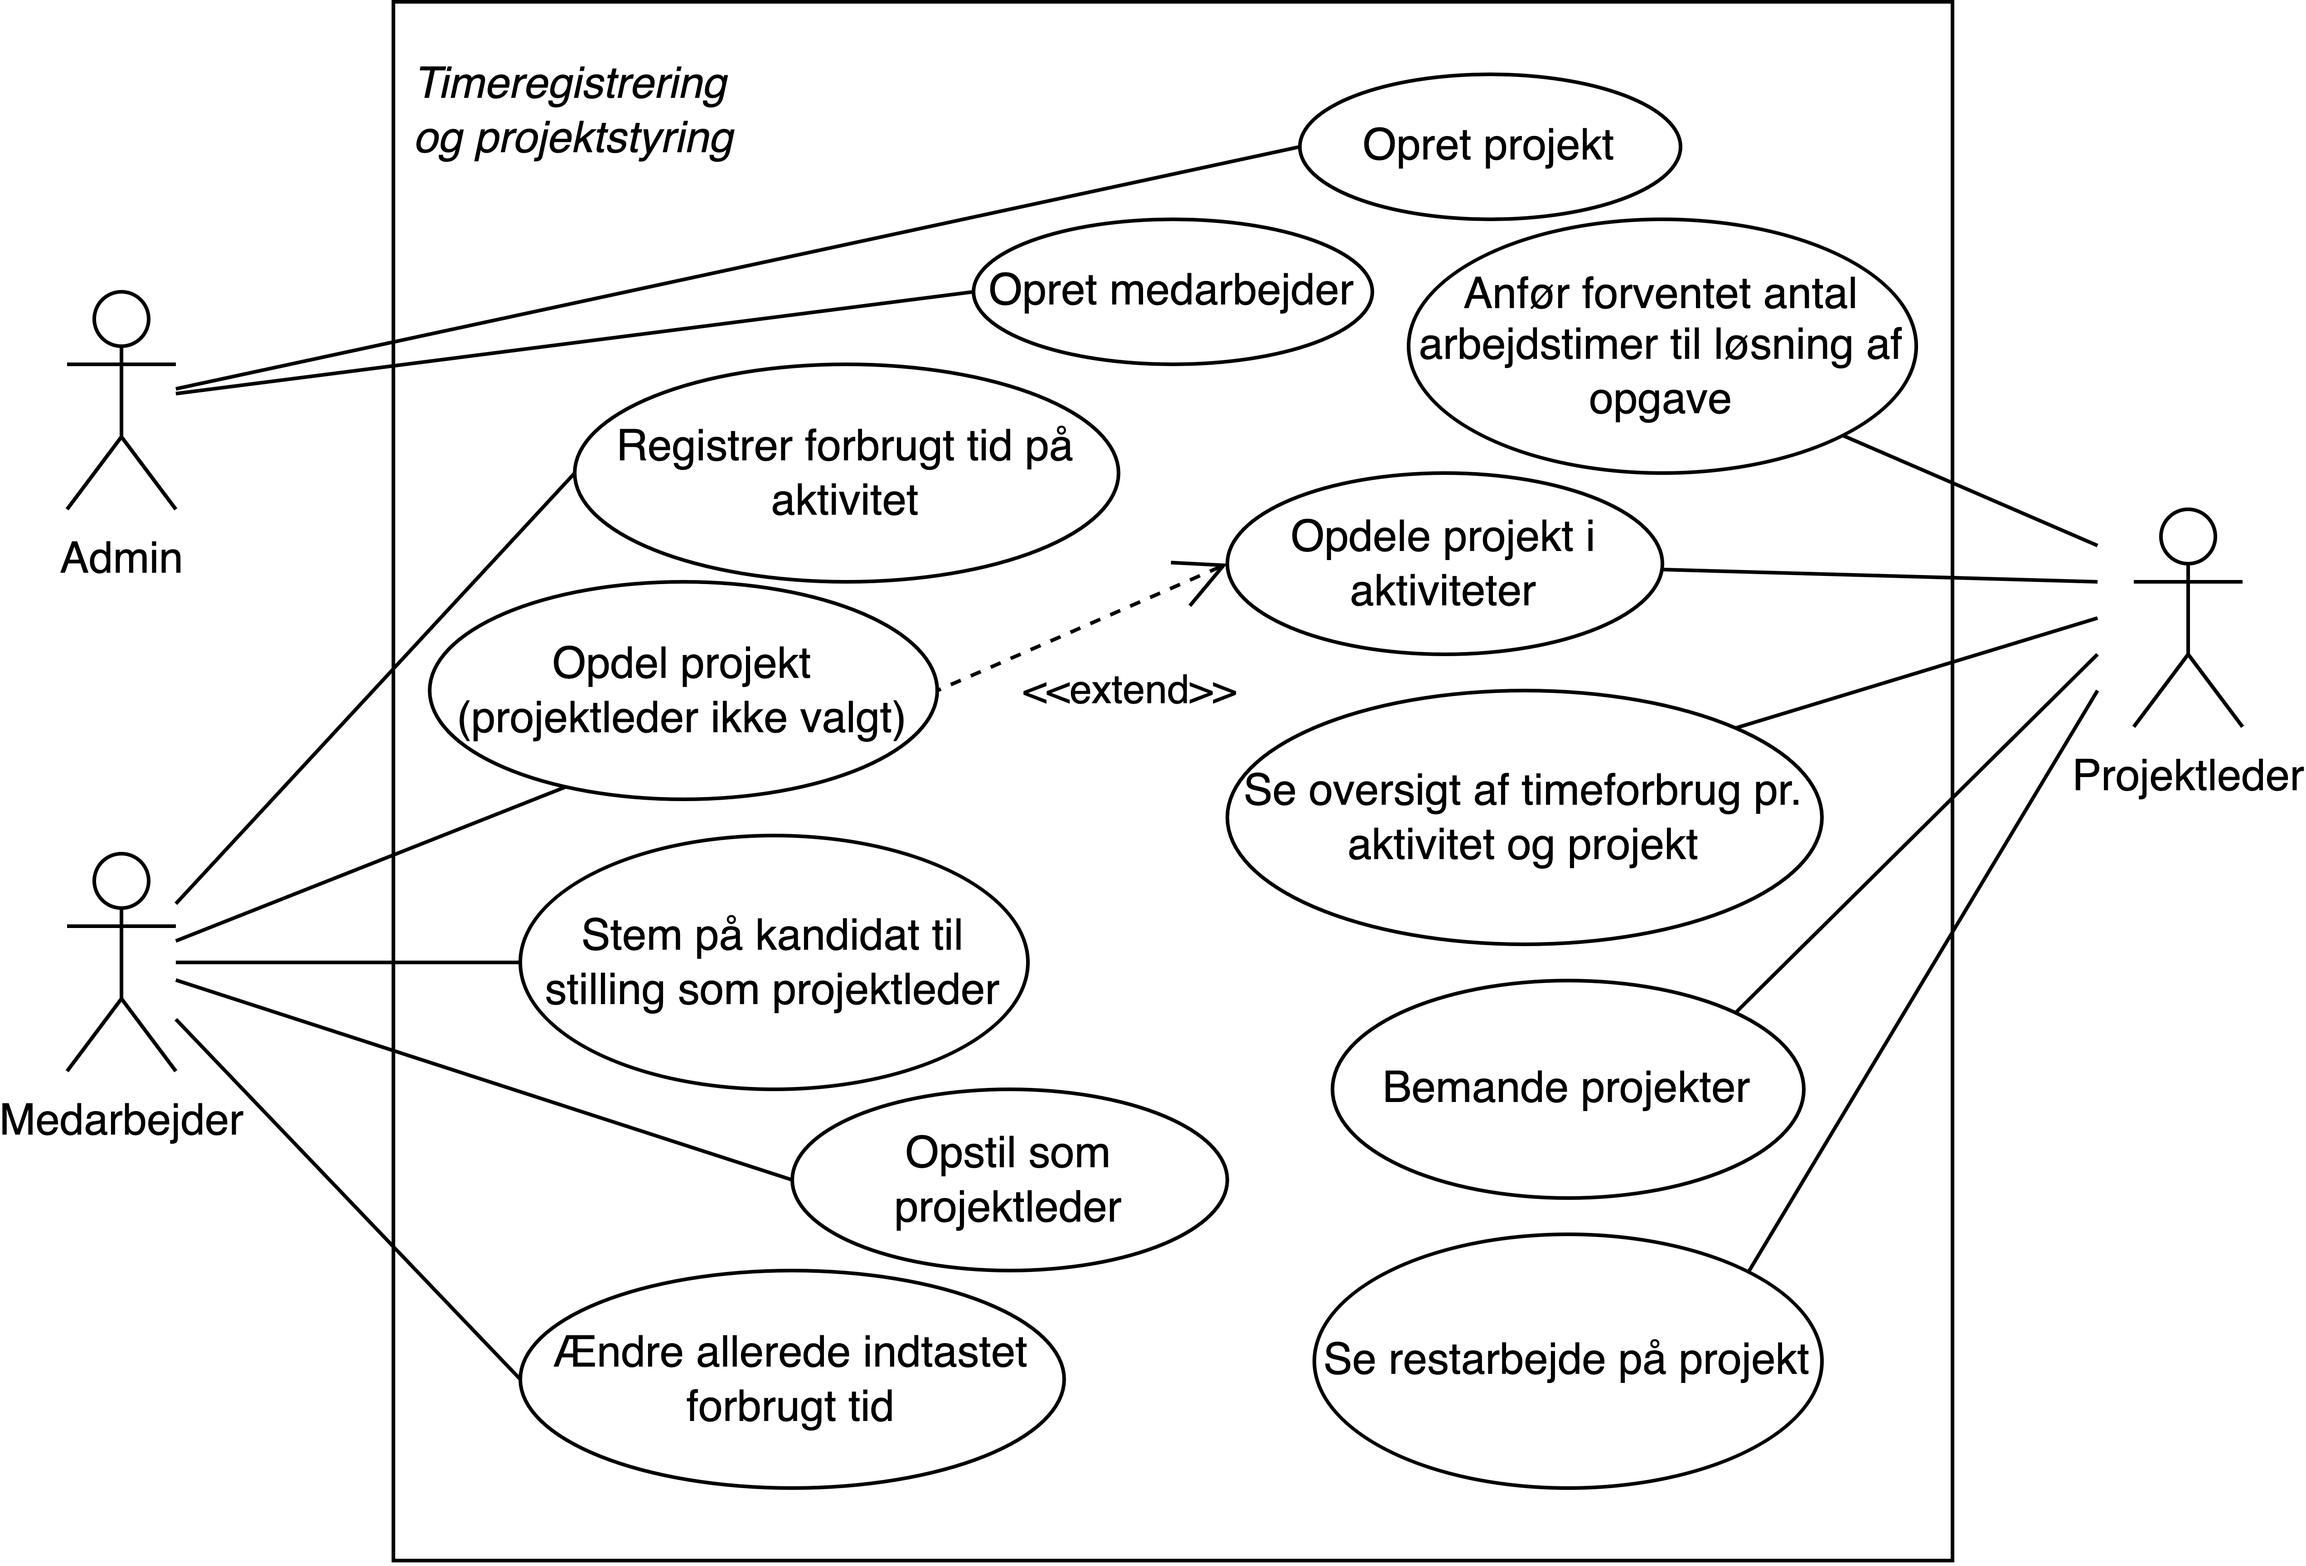
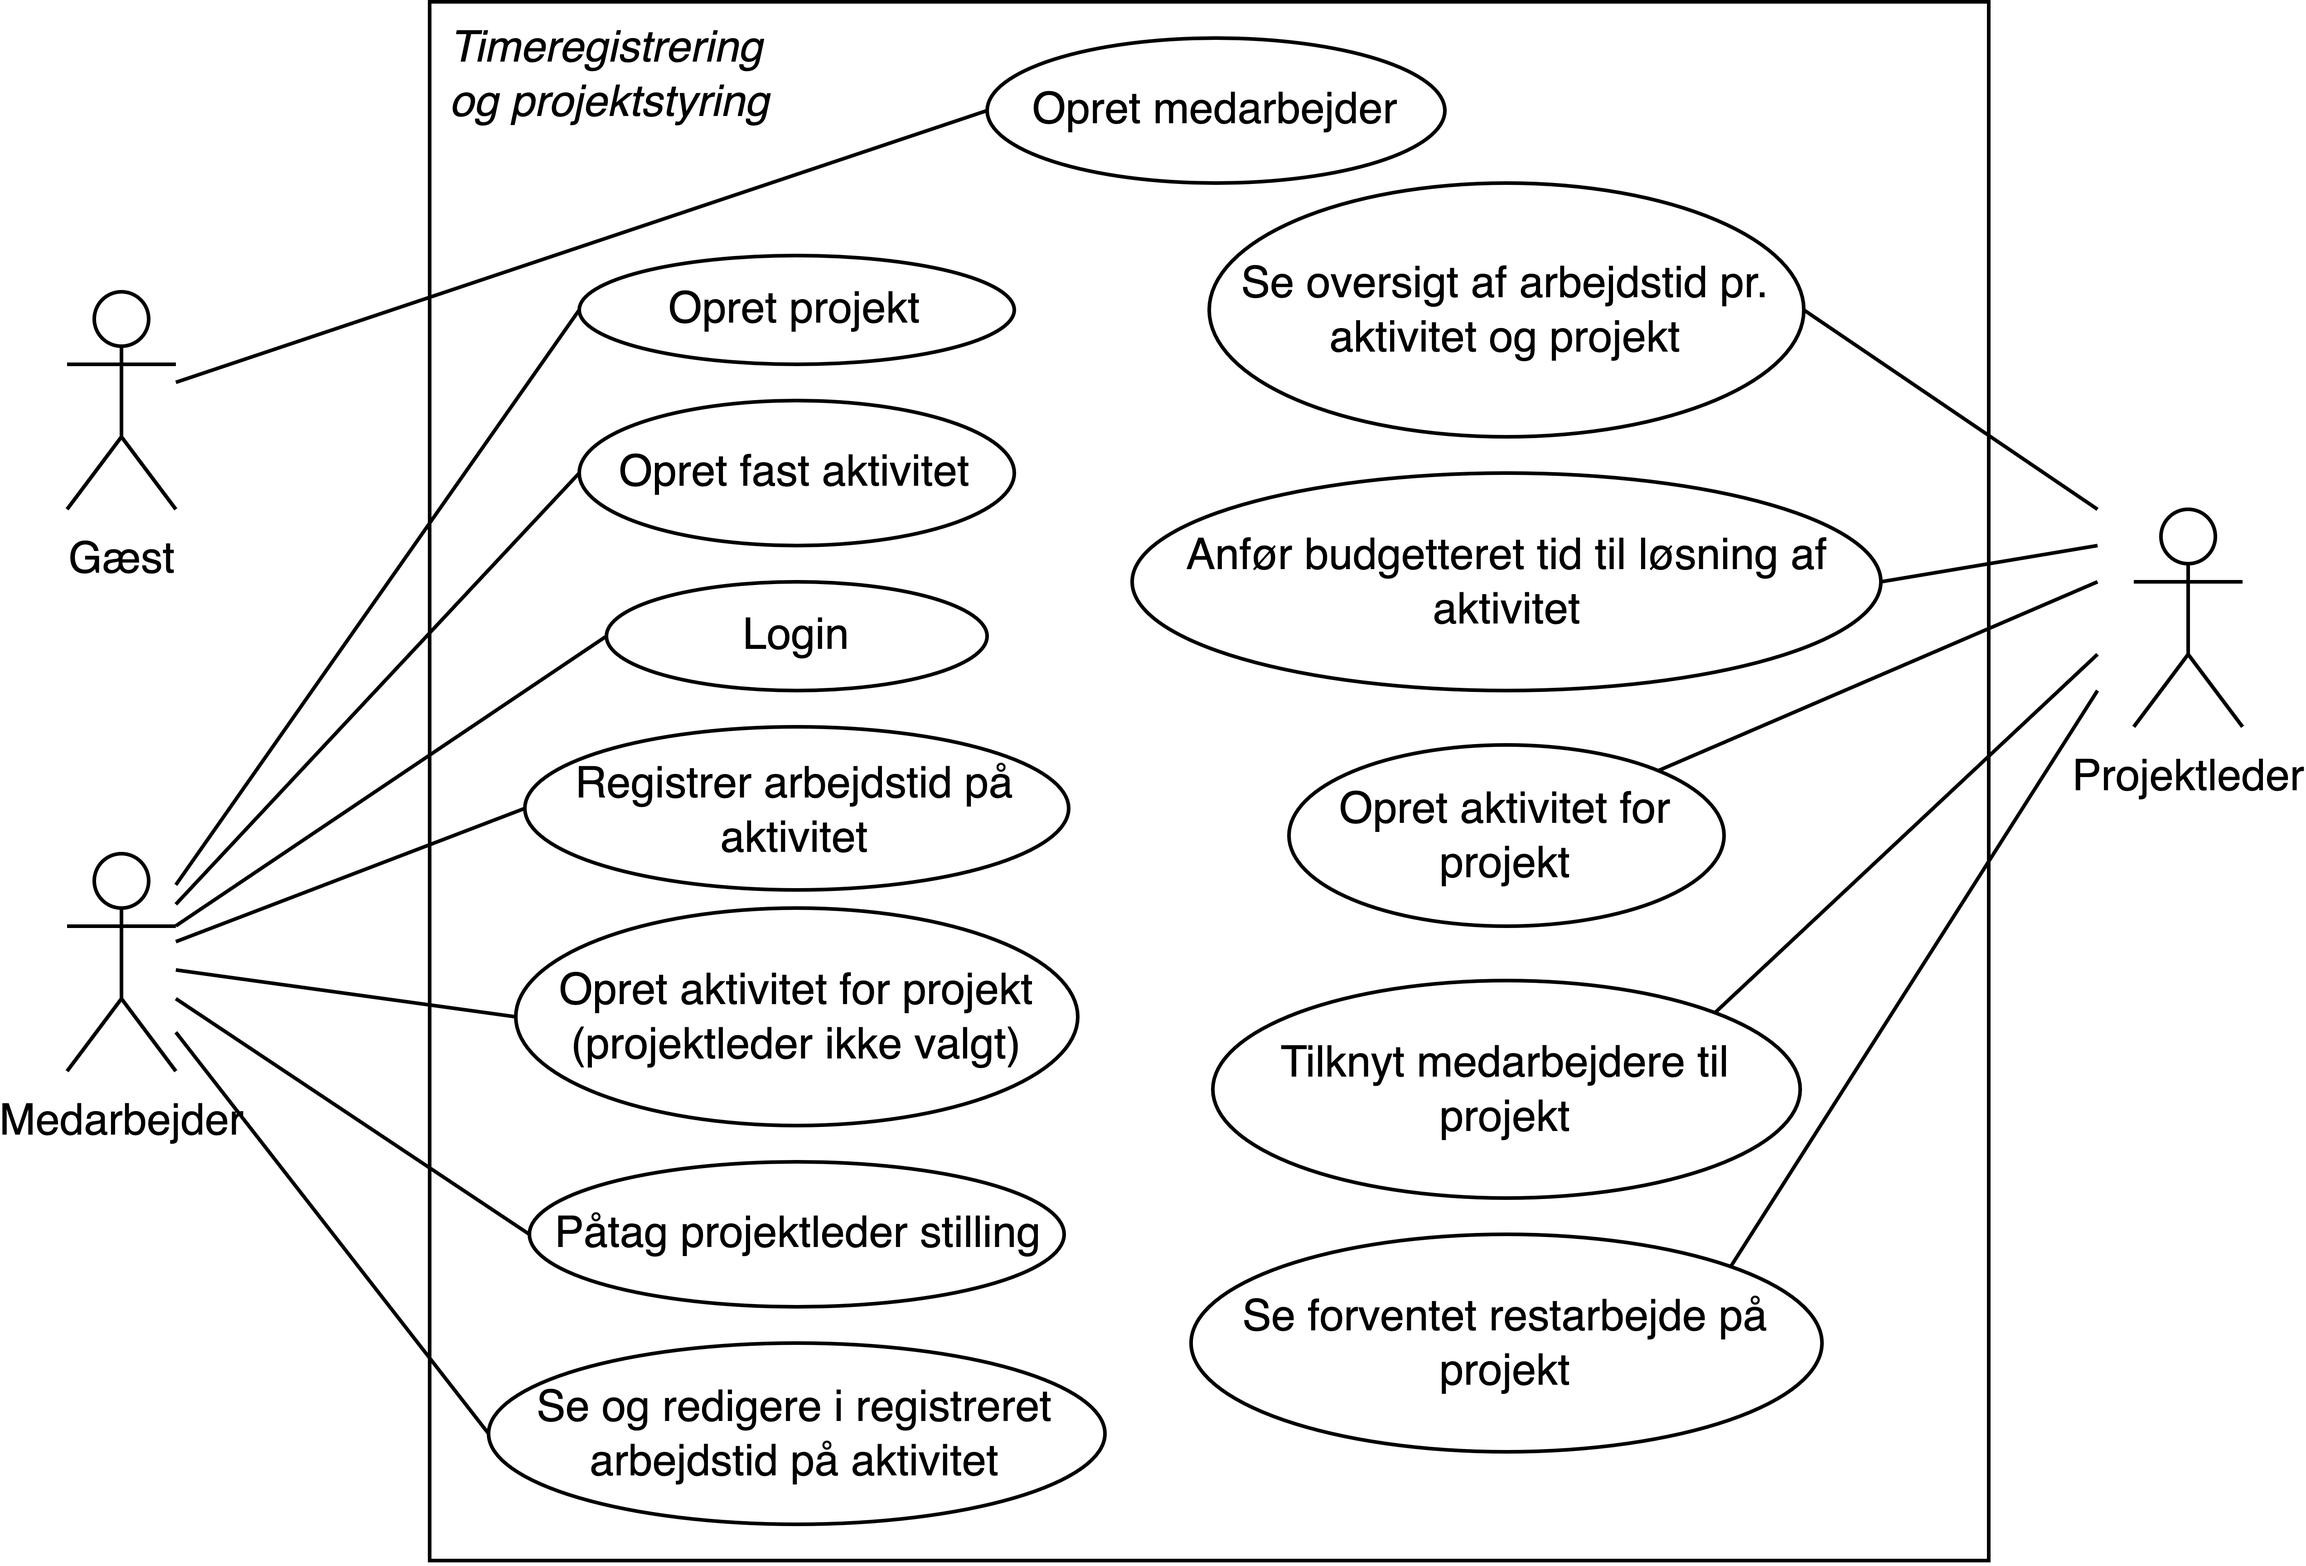
Update on Overleaf.

diff --git a/RequirementsAndDesign/Sections/01Requirements.tex b/RequirementsAndDesign/Sections/01Requirements.tex
@@ -8,60 +8,87 @@
     \begin{tblr}{width = \textwidth, colspec={Q[l, font = \bfseries, wd = .17\textwidth]Q[l, wd = .73\textwidth]}}
         % \toprule
         Medarbejder       & En medarbejder er en person ansat i Softwarehuset A/S, som er tildelt aktiviteter. En medarbejder kan udføre aktiviteter og registrere arbejdstid brugt på aktiviteter, uagtet om medarbejderen er tilknyttet aktiviteten. Hver medarbejder har et medarbejder ID. \\
-        Projekt aktivitet & En delopgave af et projekt. Hver aktivitet er tilknyttet en medarbejder.                                                                                                                                                                                           \\
-        Faste aktiviteter & Aktiviteter der ikke kan pålægges et projekt. F.eks. ferie, sygdom, kurser.                                                                                                                                                                                        \\
-        Projekt           & Udviklingsarbejde udført for en kunde (eksternt) eller for Softwarehuset A/S (internt). Et projekt administreres af en projektleder og er inddelt i aktiviteter. Hvert projekt har et projektnummer.                                                               \\
-        Kunde             & En ekstern entitet som bestiller og er modtager af projekter.                                                                                                                                                                                                      \\
-        Projektleder      & En medarbejder der har ret til at oprette og tildele aktiviteter for et givent projekt.                                                                                                                                                                            \\
-        Softwarehuset A/S & Entitet som er modtager af et projekt, hvis projektet er internt.                                                                                                                                                                                                  \\
-        Medarbejder ID    & Identifikation for hver enkelt medarbejder. Består af fire bogstaver. To første fra fornavn efterfulgt af to første fra efternavn. F.eks. RAWI.                                                                                                                    \\
-        Projektnumer      & Identifikation for hvert enkelt projekt. Har formen årstal efterfulgt af et fireciffret løbenummer. F.eks. 23001                                                                                                                                                   \\
-        Varighed          & En aktivitets fastlagte antal hele timer.                                                                                                                                                                                                                          \\
-        Arbejdstid        & Mængde tid i inkrementer af halve timer, brugt på en aktivitet. Kan registreres af den medarbejder som har brugt arbejdstid på en given aktivitet.                                                                                                                 \\
+        
+        Projekt aktivitet & En delopgave af et projekt. Hver aktivitet er tilknyttet en medarbejder. \\
+        
+        Faste aktiviteter & Aktiviteter der ikke kan pålægges et projekt. F.eks. ferie, sygdom, kurser. \\
+        
+        Projekt           & Udviklingsarbejde udført for en kunde (eksternt) eller for Softwarehuset A/S (internt). Et projekt administreres af en projektleder og er inddelt i aktiviteter. Hvert projekt har et projektnummer. \\
+        
+        Kunde             & En ekstern entitet som bestiller og er modtager af projekter. \\
+        
+        Projektleder      & En medarbejder der har ret til at oprette og tildele aktiviteter for et givent projekt. \\
+        
+        Softwarehuset A/S & Entitet som er modtager af et projekt, hvis projektet er internt. \\
+        
+        Medarbejder ID    & Identifikation for hver enkelt medarbejder. Består af fire bogstaver. To første fra fornavn efterfulgt af to første fra efternavn. F.eks. rawi.  \\
+        
+        Projektnumer      & Identifikation for hvert enkelt projekt. Har formen årstal efterfulgt af et fireciffret løbenummer. F.eks. 23001  \\
+        
+        Budgetteret tid          & En aktivitets fastlagte antal hele timer. \\
+        
+        Arbejdstid        & Mængde tid i inkrementer af halve timer, brugt på en aktivitet. Kan registreres af den medarbejder som har brugt arbejdstid på en given aktivitet.  \\
+        
         % \bottomrule
     \end{tblr}
 \end{table}
 \subsection{Use case diagrams}
-\subsubsection{Projektstyring}
-
 \begin{figure}[H]
     \centering
-    \caption{Use case: Projektstyring}\label{fig:Projektstyring}
-    \includegraphics[width=.3\textwidth]{Diagrams/guest_project}
+    \caption{Use case diagram for programmet \textbf{Timeregistrering og projektstyring} hvori de tre aktører inkluderet er Gæst, Medarbejder og Projektleder.}\label{fig:AlleActorsPaaEnGang}
+    \includegraphics[width=.85\textwidth]{Diagrams/Timeregistrering og projektstyring.png}
 \end{figure}
+%\begin{figure}[H]
+%    \centering
+%    \caption{Use case: Projektstyring GAMMEL}\label{fig:Projektstyring}
+%    \includegraphics[width=.3\textwidth]{Diagrams/guest_project}
+%\end{figure}
 
-\subsubsection{Aktivitetshåndtering}
+%\subsubsection{Aktivitetshåndtering}
 
-\begin{figure}[H]
-    \centering
-    \caption{Use case: Aktivitetshåndtering}\label{fig:Aktivitetshaandtering}
-    \includegraphics[width=.3\textwidth]{Diagrams/guest_activity}
-\end{figure}
+%\begin{figure}[H]
+%    \centering
+%    \caption{Use case: Aktivitetshåndtering GAMMEL}\label{fig:Aktivitetshaandtering}
+%    \includegraphics[width=.3\textwidth]{Diagrams/guest_activity}
+%\end{figure}
 
-\subsubsection{Bruger administration}
+%\subsubsection{Bruger administration}
 
-\begin{figure}[H]
-    \centering
-    \caption{Use case: Bruger administration}\label{fig:BrugerAdmin}
-    \includegraphics[width=.3\textwidth]{Diagrams/guest_users}
-\end{figure}
+%\begin{figure}[H]
+%    \centering
+%    \caption{Use case: Bruger administration GAMMEL}\label{fig:BrugerAdmin}
+%    \includegraphics[width=.3\textwidth]{Diagrams/guest_users}
+%\end{figure}
 
 \subsection{Detaljerede use cases}
 \subsection{Opret projekt}
-\Large{Kaspers udkast af use case}\newline
-\normalsize
 \emph{Navn}\newline
 Opret projekt\newline
 \emph{Beskrivelse}\newline
 Der kan oprettes projekter\newline
 \emph{Aktør}\newline
 Bruger
-\begin{figure}[H]
-    \centering
-    \caption{Det her var et forsøg på at lave et use-case diagram med alle actors tilstede. Der er muligvis også flere use-cases end nødvendig, men de her er stillet af opgaven, som fremgår af projektbeskrivelsen. Ikke nødvendigvis det mest overskuelige use-case diagram, men en fordel ved denne er - selvom det er en mindre detalje - at man får en enkel use-case relation med, nemlig <<extend>>. (Mathies)}\label{fig:AlleActorsPaaEnGang}
-    \includegraphics[width=.7\textwidth]{Diagrams/Timeregistrering og projektstyring.png}
-\end{figure}
 
+\begin{table}[H]
+    \centering
+    \begin{tabular}{ll}
+        Use case                                             & Tildelt \\
+        \midrule
+        Opret Medarbejder                                    & \\
+        Opret projekt                                        & \\
+        Opret fast aktivitet                                 & \\
+        Login                                                & \\
+        Registrer arbejdstid på aktivitet                    & \\
+        Opret Aktivitet for projekt (Medarbejder)            & Max\\
+        Påtag projektleder stilling                          & Max\\
+        Se og rediger i registreret arbejdstid på aktivitet  &  Mathies\\
+        Se oversigt over arbejdstid pr. aktivitet og projekt & Mathies \\
+        Anfør budgetteret tid til løsning af aktivitet       & \\
+        Opret Aktivitet for projekt (Projektleder)           & \\
+        Tilknyt medarbejdere til projekt                     & \\
+        Se forventet restarbejde på projekt                  & \\
+    \end{tabular}
+\end{table}
 % \emph{Cucumber feature 1}
 % \begin{verbatim}
 % Feature: Buy fruit
@@ -81,16 +108,16 @@ Bruger
     \centering
     \caption{Cucumber feature 1}\label{lst:feature1}
     \begin{minted}{gherkin}
-    Feature: Buy fruit
-    Description: A user buys fruit...
-    Actors: User
-    
-    Scenario: Buy a fruit with enough money
-        Given the vending machine has fruits
-        When the user enters enough mone for a fruit
-        And the user selects a fruit
-        And the machine returns the rest money
-        And the vending machine remembers its earnings
-        ...
+Feature: Buy fruit
+Description: A user buys fruit...
+Actors: User
+
+Scenario: Buy a fruit with enough money
+    Given the vending machine has fruits
+    When the user enters enough mone for a fruit
+    And the user selects a fruit
+    And the machine returns the rest money
+    And the vending machine remembers its earnings
+    ...
     \end{minted}
 \end{listing}
